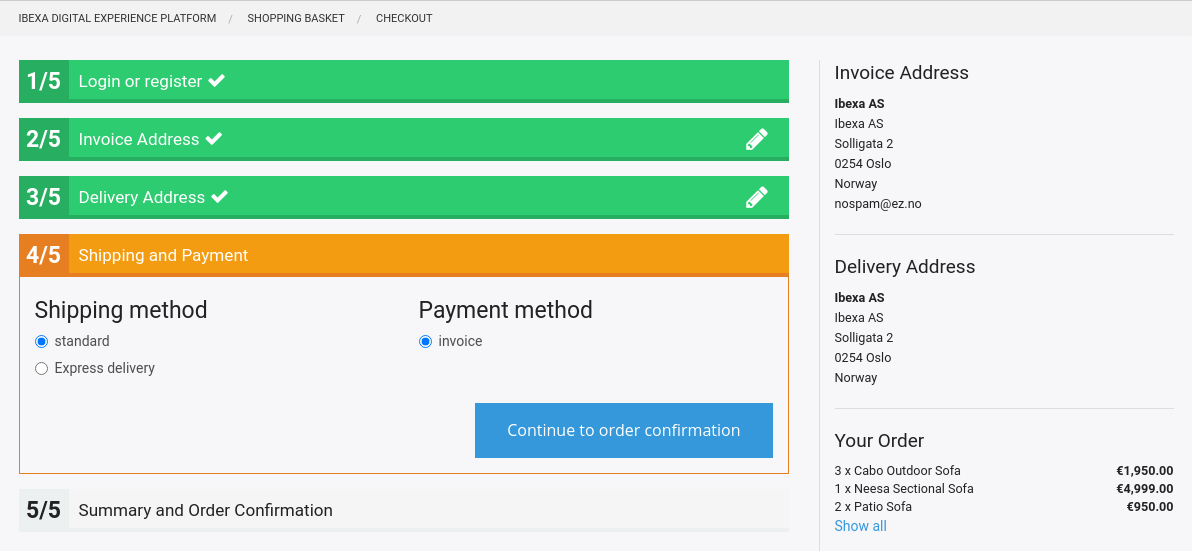
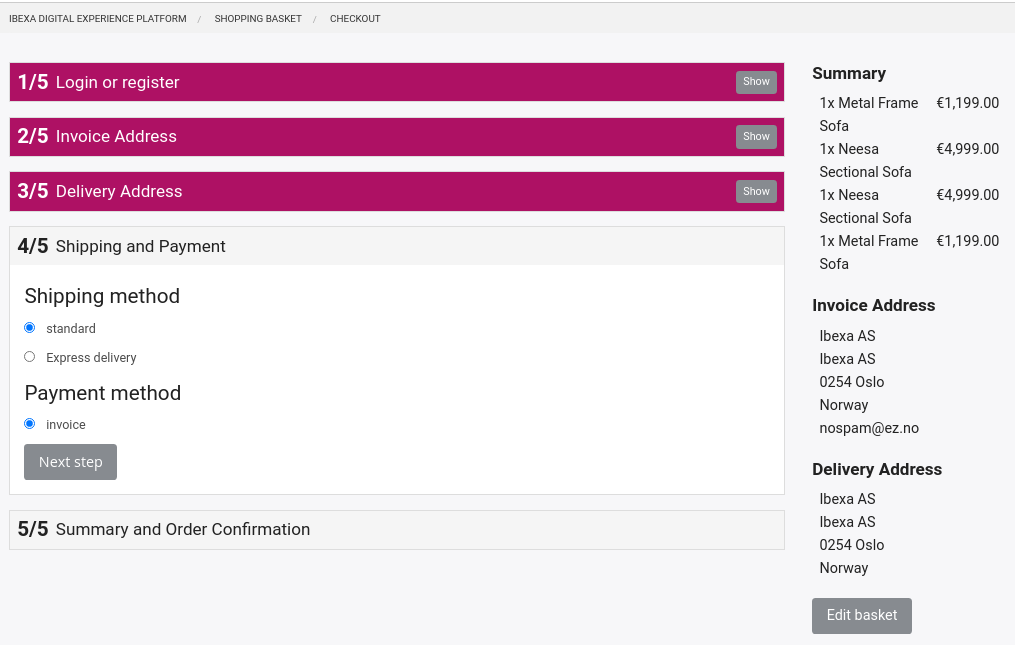
EZEE-3219: Checkout and Basket components (#1252)

diff --git a/docs/guide/checkout/checkout_templates.md b/docs/guide/checkout/checkout_templates.md
@@ -4,16 +4,22 @@
 
 | Path                                           | Description                             |
 | ---------------------------------------------- | --------------------------------------- |
-| `Checkout/checkout.html.twig`  | Main template |
-| `Checkout/checkout_login.html.twig` | Login section of the checkout screen |
-| `Checkout/checkout_invoice_address.html.twig` | Invoice address section of the checkout screen |
-| `Checkout/checkout_delivery_address.html.twig` | Delivery address section of the checkout screen |
-| `Checkout/checkout_shipping_payment.html.twig` | Shipping section of the checkout screen |
-| `Checkout/checkout_summary.html.twig` | Summary section of the checkout screen |
-| `Checkout/Email/order_confirmation.html.twig` | Confirmation email as HTML |
-| `Checkout/Email/order_confirmation.txt.twig` | Confirmation email as text |
-| `Checkout/order_confirmation.html.twig` | Confirmation of a successful order |
-| `Checkout/confirmed_basket.html.twig` | Details of a successful order |
-| `Checkout/sidebar_delivery_address.html.twig` | Delivery address block in checkout sidebar |
-| `Checkout/sidebar_invoice_address.html.twig` | Invoice address block in checkout sidebar |
-| `Checkout/sidebar_summary.html.twig` | Order summary sidebar block |
+| `checkout/page.html.twig `  | Main checkout page |
+| `checkout/login.html.twig` | Login section of the checkout screen |
+| `checkout/invoice_address.html.twig` | Invoice address section of the checkout screen |
+| `checkout/delivery_address.html.twig` | Delivery address section of the checkout screen |
+| `checkout/existing_delivery_address.html.twig` | Delivery address section when using an existing address |
+| `checkout/form_fields.html.twig` | Form fields for the checkout |
+| `checkout/shipping_payment.html.twig` | Shipping section of the checkout screen |
+| `checkout/summary.html.twig` | Summary section of the checkout screen |
+| `checkout/Email/order_confirmation.html.twig` | Confirmation email as HTML |
+| `checkout/Email/order_confirmation.txt.twig` | Confirmation email as text |
+| `checkout/order_confirmation.html.twig` | Confirmation of a successful order |
+| `checkout/sidebar_delivery.html.twig` | Delivery address block in checkout sidebar |
+| `checkout/sidebar_invoice.html.twig` | Invoice address block in checkout sidebar |
+| `checkout/sidebar_summary.html.twig` | Order summary sidebar block |
+| `checkout/sidebar_summary_row.html.twig` | Single row of sidebar summary |
+| `checkout/step_header.html.twig` | Header of a checkout step |
+| `checkout/simple/checkout.html.twig` | Simple checkout page |
+| `checkout/simple/checkout_delivery_address.html.twig` | Delivery address for simple checkout |
+| `checkout/simple/checkout_invoice_address.html.twig` | Invoice address for simple checkout |

diff --git a/docs/guide/basket/basket_templates.md b/docs/guide/basket/basket_templates.md
@@ -4,14 +4,12 @@
 
 |Path|Description|
 |--- |--- |
-|`SilversolutionsEshopBundle:Basket:show.html.twig`|Main basket template|
-|`SilversolutionsEshopBundle:Basket:messages.html.twig`|Renders a message when the basket is modified|
-|`SilversolutionsEshopBundle:Fieldtypes:StockField.html.twig`|Renders the stock Field representing product availability|
-|`SilversolutionsEshopBundle:parts:stock_legend.html.twig`|Renders the legend of symbols used to indicate product availability|
-|`ezcommerce-base-design/Resources/views/themes/standard/basket/widget.html.twig`|Renders the basket preview in the upper right corner of the shop screen|
-|`ezcommerce-base-design/Resources/views/themes/standard/basket/row.html.twig`|Renders one row of basket preview|
-|`SilversolutionsEshopBundle:Basket:stored_basket_preview_wish_list.html.twig`|Renders the wishlist row with a number of products in the "My Shop" menu|
-|`SilversolutionsEshopBundle:Basket:stored_basket_preview_comparison.html.twig`|Renders the comparison row with a number of products in the "My Shop" menu|
+|`basket/page.html.twig `|Main basket template|
+|`basket/widget.html.twig`|Basket preview in the upper right corner of the shop screen|
+|`basket/row.html.twig`|Single row of basket preview|
+|`basket/basket_summary.html.twig`|Basket summary|
+|`SilversolutionsEshopBundle:Basket:stored_basket_preview_wish_list.html.twig`|Wishlist row with a number of products in the "My Shop" menu|
+|`SilversolutionsEshopBundle:Basket:stored_basket_preview_comparison.html.twig`|Comparison row with a number of products in the "My Shop" menu|
 
 ## Display the content of a basket
 

diff --git a/docs/guide/checkout/checkout_api/forms/configuration_for_checkout_forms.md b/docs/guide/checkout/checkout_api/forms/configuration_for_checkout_forms.md
@@ -2,9 +2,9 @@
 
 You can use generic configuration for checkout forms to override the forms and form logic for your project.
 
-`Siso\Bundle\CheckoutBundle\Model\FormConfig` is the class managing the configuration.
+`Ibexa\Platform\Commerce\Checkout\ModelFormConfig` is the class managing the configuration.
 
-You configure the checkout forms in `Siso/Bundle/CheckoutBundle/Resources/config/checkout.yml`.
+You configure the checkout forms in `ezcommerce-checkout/src/bundle/Resources/config/checkout_parameters.yaml`.
 
 You can modify this configuration to override e.g. the form type, form service or templates.
 
@@ -15,7 +15,7 @@ You can modify this configuration to override e.g. the form type, form service o
 
 ## Other configuration values
 
-`CheckoutBundle/Resources/config/checkout.yml` contains the settings for forms and preferred choices.
+`ezcommerce-checkout/src/bundle/Resources/config/checkout_parameters.yaml` contains the settings for forms and preferred choices.
 The choices for the delivery address depend on the user status.
 
 !!! tip

diff --git a/docs/guide/checkout/order_confirmation.md b/docs/guide/checkout/order_confirmation.md
@@ -6,7 +6,7 @@ If the customer has a customer number, customer data is fetched from the ERP aga
 
 ## Confirmation email
 
-The `Siso\Bundle\CheckoutBundle\EventListener\OrderConfirmationListener` event listener sends the order confirmation
+The `Ibexa\Platform\Commerce\Checkout\Event\Listener\OrderConfirmationListener` event listener sends the order confirmation
 as soon as the ERP accepts the order.
 
 Both the customer and a sales contact (if configured) should receive confirmation emails.
@@ -14,7 +14,7 @@ The confirmation is sent using `MailHelperService`.
 
 In case of a failure (for example, when the mail server is unreachable), the issue is logged into `var/log/<env>/dev-siso.mails.log`.
 
-Processing the confirmation email address is handled in `Siso\Bundle\CheckoutBundle\Service\SummaryCheckoutFormService`.
+Processing the confirmation email address is handled in `Ibexa\Platform\Commerce\Checkout\Service\SummaryCheckoutFormService`.
 
 ### Customer confirmation
 

diff --git a/docs/guide/checkout/checkout_api/checkout_controllers.md b/docs/guide/checkout/checkout_api/checkout_controllers.md
@@ -2,7 +2,7 @@
 
 ## CheckoutController
 
-`CheckoutController` (`Siso\Bundle\CheckoutBundle\Controller\CheckoutController`) is the entry point for the checkout process.
+`CheckoutController` (`Ibexa\Platform\Bundle\Commerce\Checkout\Controller\CheckoutController`) is the entry point for the checkout process.
 
 Before the user enters the checkout process, [Checkout Events](checkout_events.md) are thrown
 that enable you to interrupt the checkout process if required.
@@ -12,7 +12,7 @@ Depending on which step the user is in, it forwards the call to the relevant `Aj
 
 ## AjaxCheckoutController
 
-`AjaxCheckoutController` (`Siso\Bundle\CheckoutBundle\Controller\AjaxCheckoutController`)
+`AjaxCheckoutController` (`Ibexa\Platform\Bundle\Commerce\Checkout\Controller\AjaxCheckoutController`)
 is the subcontroller responsible for calls in the checkout process.
 
 `AjaxCheckoutController` first calls `validateStepAction()` to calculate the current possible step depending on:

diff --git a/docs/guide/basket/basket_api/basket_routing.md b/docs/guide/basket/basket_api/basket_routing.md
@@ -11,13 +11,13 @@ The basket provides the following routes:
 
 ## `/basket/show`
 
-Shows a basket with all basket lines. The controller loads the template `SilversolutionsEshopBundle:Basket:show.html.twig`.  
+Shows a basket with all basket lines. The controller loads the template `/basket/page.html.twig`.
 
 | Parameter | Type   | Description                                   |
 | --------- | ------ | ------------------------------------------------------------------------------------- |
 | `basket`    | Basket | Optional. This parameter cannot be provided as a POST parameter. It's used internally |
 
-Parameters provided in the basket template `show.html.twig`:
+Parameters provided in the basket template `page.html.twig`:
 
 | Parameter | Type | Description |
 | --------- | -------------------------------------------- | --------------------------------------------------- |

diff --git a/docs/guide/checkout/checkout_api/forms/checkout_delivery_address_form.md b/docs/guide/checkout/checkout_api/forms/checkout_delivery_address_form.md
@@ -2,7 +2,7 @@
 
 ## Model class
 
-`CheckoutDeliveryAddress` (`Siso\Bundle\CheckoutBundle\Form\CheckoutDeliveryAddress`)
+`CheckoutDeliveryAddress` (`Ibexa\Platform\Commerce\Checkout\Form\CheckoutDeliveryAddress`)
 extends `AbstractFormEntity` and implements `CheckoutAddressInterface`.
 It manages the form for choosing delivery address in checkout process.
 
@@ -27,7 +27,7 @@ It manages the form for choosing delivery address in checkout process.
 
 ## Form Type
 
-`Siso\Bundle\CheckoutBundle\Form\Type\CheckoutDeliveryAddressType`
+`Ibexa\Platform\Commerce\Checkout\Form\TypeCheckoutDeliveryAddressType`
 (service ID: `siso_checkout.form_entity.checkout_delivery_address_type`)
 implements the setup for this form.
 

diff --git a/docs/guide/checkout/checkout_api/forms/checkout_shipping_payment_form.md b/docs/guide/checkout/checkout_api/forms/checkout_shipping_payment_form.md
@@ -2,7 +2,7 @@
 
 ## Model Class
 
-`CheckoutShippingPayment` (`Siso\Bundle\CheckoutBundle\Form\CheckoutShippingPayment`)
+`CheckoutShippingPayment` (`Ibexa\Platform\Commerce\Checkout\Form\CheckoutShippingPayment`)
 extends `AbstractFormEntity` and implements `CheckoutAddressInterface`.
 
 ## Fields
@@ -19,7 +19,7 @@ You set the parameters in the [configuration for checkout forms](configuration_f
 
 ## Form Type
 
-`Siso\Bundle\CheckoutBundle\Form\Type\CheckoutShippingPaymentType`
+`Ibexa\Platform\Commerce\Checkout\Form\Type\CheckoutShippingPaymentType`
 (service ID: `siso_checkout.form_entity.checkout_shipping_payment_type`)
 implements the setup for this form.
 

diff --git a/docs/guide/checkout/checkout_api/forms/checkout_invoice_address_form.md b/docs/guide/checkout/checkout_api/forms/checkout_invoice_address_form.md
@@ -2,7 +2,7 @@
 
 ## Model class
 
-`CheckoutInvoiceAddress` (`Siso\Bundle\CheckoutBundle\Form\CheckoutInvoiceAddress`)
+`CheckoutInvoiceAddress` (`Ibexa\Platform\Commerce\Checkout\Form\CheckoutInvoiceAddress`)
 extends `AbstractFormEntity` and implements `CheckoutAddressInterface`.
 
 ## Fields
@@ -28,7 +28,7 @@ You set the parameters in the [configuration for checkout forms](configuration_f
 
 ## Form Type
 
-`Siso\Bundle\CheckoutBundle\Form\Type\CheckoutInvoiceAddressType`
+`Ibexa\Platform\Commerce\Checkout\Form\Type\CheckoutInvoiceAddressType`
 (service ID: `siso_checkout.form_entity.checkout_invoice_address_type`)
 implements the setup for this form.
 

diff --git a/docs/guide/checkout/checkout_api/forms/checkout_summary_form.md b/docs/guide/checkout/checkout_api/forms/checkout_summary_form.md
@@ -1,6 +1,6 @@
 # Checkout summary form
 
-`CheckoutSummary` (`\Siso\Bundle\CheckoutBundle\Form\CheckoutSummary`) extends `AbstractFormEntity`
+`CheckoutSummary` (`Ibexa\Platform\Commerce\Checkout\Form\CheckoutSummary`) extends `AbstractFormEntity`
 and manages the HTML form for order summary in checkout process.
 
 ## Fields
@@ -17,7 +17,7 @@ See [configuration for checkout forms](configuration_for_checkout_forms.md).
 
 ## Form Type
 
-`Siso\Bundle\CheckoutBundle\Form\Type\CheckoutSummaryType`
+`Ibexa\Platform\Commerce\Checkout\Form\CheckoutSummaryType`
 (service ID: `siso_checkout.form_entity.checkout_summary_type`)
 implements the setup for this form.
 

diff --git a/docs/guide/checkout/checkout_api/forms/order_summary.md b/docs/guide/checkout/checkout_api/forms/order_summary.md
@@ -6,8 +6,8 @@ Summary is the last step in the checkout process. In order to finish the process
 
 |                              |           |
 | ---------------------------- | --------- |
-| Main template                | `EshopBundle/Resources/views/Checkout/checkout_summary.html.twig` |
-| Sidebar template for summary | `EshopBundle/Resources/views/Checkout/sidebar_summary.html.twig`  |
+| Main template                | `checkout/summary.html.twig` |
+| Sidebar template for summary | `checkout/sidebar_summary.html.twig`  |
 
 ## Terms and conditions
 

diff --git a/docs/guide/checkout/local_orders.md b/docs/guide/checkout/local_orders.md
@@ -38,7 +38,7 @@ siso_core.default.ses_swiftmailer:
 ## Email templates
 
 Local order [confirmation emails](order_confirmation.md) are based on the standard order confirmation email templates:
-`SilversolutionsEshopBundle:Checkout/Email:order_confirmation.txt.twig` and `SilversolutionsEshopBundle:Checkout/Email:order_confirmation.html.twig`
+`checkout/Email/order_confirmation.txt.twig` and `checkout/Email/order_confirmation.html.twig`
 
 ## PDF invoice
 
